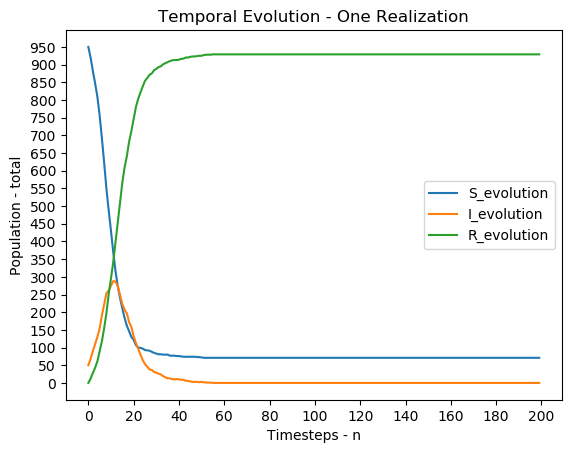
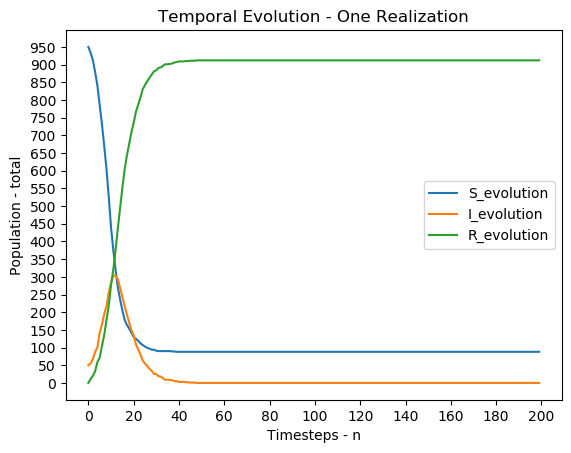
Fixed task 1d

diff --git a/main.py b/main.py
@@ -19,6 +19,7 @@ def simulate_timesteps():
 
         time_s = 0
         time_i = 0
+        
 
         rand_prob = random.random()
 
@@ -26,11 +27,17 @@ def simulate_timesteps():
             time_s += 1
             rand_prob = random.random()
         
+        # This is the step from state S to state I
+        time_s += 1
+        
         rand_prob = random.random()
 
         while gamma < rand_prob:
             time_i += 1
             rand_prob = random.random()
+        
+        # This is the step from state I to R
+        time_i += 1
 
         N_s.append(time_s)
         N_i.append(time_i)
@@ -40,15 +47,11 @@ def simulate_timesteps():
     average_time_s = np.mean(N_s)
     average_time_i = np.mean(N_i)
 
-    # print(len(N_s) + len(N_i))
-    # print(N_s[0:10])
-    # print(N_i[10:20])
+ 
     print ("------------------------------")
     print ("Task 1d)")
     print ("Average time in state S: {mean}".format(mean=average_time_s))
-    # print (average_time_s)
     print ("Average time in state I: {mean}".format(mean=average_time_i))
-    # print (average_time_i)
 
 
 # Task 1 e)
@@ -94,8 +97,6 @@ def plot_temporal_evolution(matrix):
     I_evolution = matrix[1]
     R_evolution = matrix[2]
     
-    #print(S_evolution)
-    #print(I_evolution, R_evolution)
 
     x_axis = list(range(0,200))
 
@@ -139,12 +140,8 @@ def simulate_expected_max_infected():
     print ("------------------------------")
     print ("Task 1f)")
     print ("Based on {n} simulations of the outbreak for {timesteps} timesteps, the calculated expected number of max infected is: {mean}\n".format(n=n, timesteps=200, mean=np.mean(I_max)))
-    # print (mean(I_max))
-    # print (np.mean(I_max))
     print ("And based on the same simulations, the expected timestep at which the infected individuals first takes its highest value: {argmax_mean}".format(argmax_mean=np.mean(I_timesteps)))
-    # print ()
-    # print (mean(I_timesteps))
-    # print (np.mean(I_timesteps))
+    
    
 
 if __name__=="__main__":
